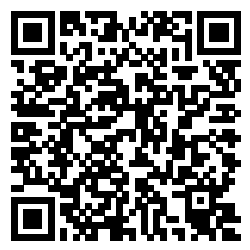
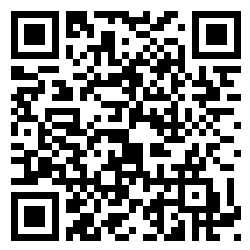
update conf links

diff --git a/readme.md b/readme.md
@@ -12,9 +12,10 @@
 - 提供多个规则文件让大家自由选择或者自由切换使用。
 - 专门针对 ShadowRocket 开发，可以保证与 SR 的兼容性。
 
+
 ## 规则列表
 
-![规则选择指南](https://github.com/h2y/Shadowrocket-ADBlock-Rules/raw/master/figure/guide.png)
+![规则选择指南](https://h2y.github.io/Shadowrocket-ADBlock-Rules/figure/guide.png)
 
 规则 | 规定代理的网站 | 规定直连的网站 
 --- | ----------- | ------------- 
@@ -37,6 +38,15 @@
 在 ShadowRocket 应用中，进入 [配置] 页面，点击扫描二维码的按钮添加规则。再激活添加的规则文件即可。
 
 最好让 ShadowRocket 断开并重新连接一次，以确保新的规则文件生效。 
+
+
+## 请保护好自己
+
+谷歌中英文的搜索体验都优于百度，而刷美剧、ins 追星、去推特看看特朗普也都挺有意思。但是，随着看到的人和事越多，我越发想要在这里说一些话，告诫路过的各位：
+
+**请务必保护好自己** 我们自认为打破了信息的壁垒，其实打破的是保护我们的屏障。因为外网真的存在很多误导性言论，来自各个利益集团对中国网民疯狂洗脑，他们往往还喜欢以平等自由等旗号自称，但仔细想想真的是这样吗？我只知道美国是最善于运用舆论的国家，会结合大数据潜移默化地改变你的观念。如果大家在上网过程中不经意看到了某些观点，务必保留自己独立思考的能力，如果你是一个容易被带偏的人，则建议回到屏障之中。
+
+本规则只提供给大家用于更便捷地学习和工作。如果你是对上述观点持反对意见的极端政治人士，或者已被洗脑，请立即离开，本项目不对你开放。
 
 
 ## 一些推荐的网站
@@ -63,14 +73,6 @@
 
 我是一名大学生，沉迷技术无法自拔。这是我的个人博客，会分享一些有趣的东西和自己的观点，欢迎来逛逛~
 
-## 请保护好自己
-
-谷歌中英文的搜索体验都优于百度，而刷美剧、ins 追星、去推特看看特朗普也都挺有意思。但是，随着看到的人和事越多，我越发想要在这里说一些话，告诫路过的各位：
-
-**请务必保护好自己** 我们自认为打破了信息的壁垒，其实打破的是保护我们的屏障。因为外网真的存在很多误导性言论，来自各个利益集团对中国网民疯狂洗脑，他们往往还喜欢以平等自由等旗号自称，但仔细想想真的是这样吗？我只知道美国是最善于运用舆论的国家，会结合大数据潜移默化地改变你的观念。如果大家在上网过程中不经意看到了某些观点，务必保留自己独立思考的能力，如果你是一个容易被带偏的人，则建议回到屏障之中。
-
-本规则只提供给大家用于更便捷地学习和工作。如果你是对上述观点持反对意见的极端政治人士，或者已被洗脑，请立即离开，本项目不对你开放。
-
 
 ## 常见问题
 
@@ -94,6 +96,7 @@
 - **广告过滤不完全？**
 
 > 该规则并不保证 100% 过滤所有的广告，尤其是视频广告，与网页广告不同的是，优酷等 App 每次升级都有可能更换一次广告策略，因此难以保证其广告屏蔽的实时有效性。
+
 
 ## 问题反馈
 
@@ -125,9 +128,9 @@
 - 直连：正常的网站
 - 包含广告过滤
 
-规则地址：<https://raw.githubusercontent.com/h2y/Shadowrocket-ADBlock-Rules/master/sr_top500_banlist_ad.conf>
+规则地址：<https://git.io/JfIXs>
 
-![二维码](https://h2y.github.io/Shadowrocket-ADBlock-Rules/figure/sr_top500_banlist_ad.png)
+![二维码](https://h2y.github.io/Shadowrocket-ADBlock-Rules/figure/sr_top500_banlist_ad.png?1)
 
 ## 白名单过滤 + 广告
 
@@ -137,9 +140,9 @@
 - 代理：默认代理其余的所有境外网站
 - 包含广告过滤
 
-规则地址：<https://raw.githubusercontent.com/h2y/Shadowrocket-ADBlock-Rules/master/sr_top500_whitelist_ad.conf>
+规则地址：<https://git.io/JfIXo>
 
-![二维码](https://h2y.github.io/Shadowrocket-ADBlock-Rules/figure/sr_top500_whitelist_ad.png)
+![二维码](https://h2y.github.io/Shadowrocket-ADBlock-Rules/figure/sr_top500_whitelist_ad.png?1)
 
 
 ## 黑名单过滤
@@ -150,9 +153,9 @@
 - 直连：正常的网站
 - 不包含广告过滤
 
-规则地址：<https://raw.githubusercontent.com/h2y/Shadowrocket-ADBlock-Rules/master/sr_top500_banlist.conf>
+规则地址：<https://git.io/JfIXS>
 
-![二维码](https://h2y.github.io/Shadowrocket-ADBlock-Rules/figure/sr_top500_banlist.png)
+![二维码](https://h2y.github.io/Shadowrocket-ADBlock-Rules/figure/sr_top500_banlist.png?1)
 
 
 ## 白名单过滤
@@ -163,27 +166,27 @@
 - 代理：默认代理其余的所有境外网站
 - 不包含广告过滤
 
-规则地址：<https://raw.githubusercontent.com/h2y/Shadowrocket-ADBlock-Rules/master/sr_top500_whitelist.conf>
+规则地址：<https://git.io/JfIXh>
 
-![二维码](https://h2y.github.io/Shadowrocket-ADBlock-Rules/figure/sr_top500_whitelist.png)
+![二维码](https://h2y.github.io/Shadowrocket-ADBlock-Rules/figure/sr_top500_whitelist.png?1)
 
 
 ## 国内外划分 + 广告
 
 国内外划分，对中国网站直连，外国网站代理。包含广告过滤。国外网站总是走代理，对于某些港澳台网站，速度反而会比直连更快。
 
-规则地址：<https://raw.githubusercontent.com/h2y/Shadowrocket-ADBlock-Rules/master/sr_cnip_ad.conf>
+规则地址：<https://git.io/JfI1k>
 
-![二维码](https://h2y.github.io/Shadowrocket-ADBlock-Rules/figure/sr_cnip_ad.png)
+![二维码](https://h2y.github.io/Shadowrocket-ADBlock-Rules/figure/sr_cnip_ad.png?1)
 
 
 ## 国内外划分
 
 国内外划分，对中国网站直连，外国网站代理。不包含广告过滤。国外网站总是走代理，对于某些港澳台网站，速度反而会比直连更快。
 
-规则地址：<https://raw.githubusercontent.com/h2y/Shadowrocket-ADBlock-Rules/master/sr_cnip.conf>
+规则地址：<https://git.io/JfI1q>
 
-![二维码](https://h2y.github.io/Shadowrocket-ADBlock-Rules/figure/sr_cnip.png)
+![二维码](https://h2y.github.io/Shadowrocket-ADBlock-Rules/figure/sr_cnip.png?1)
 
 
 ## 直连去广告
@@ -193,9 +196,9 @@
 - 直连：所有请求
 - 包含广告过滤
 
-规则地址：<https://raw.githubusercontent.com/h2y/Shadowrocket-ADBlock-Rules/master/sr_direct_banad.conf>
+规则地址：<https://git.io/JfI1m>
 
-![二维码](https://h2y.github.io/Shadowrocket-ADBlock-Rules/figure/sr_direct_banad.png)
+![二维码](https://h2y.github.io/Shadowrocket-ADBlock-Rules/figure/sr_direct_banad.png?1)
 
 
 ## 代理去广告
@@ -206,9 +209,9 @@
 - 代理：其余所有请求
 - 包含广告过滤
 
-规则地址：<https://raw.githubusercontent.com/h2y/Shadowrocket-ADBlock-Rules/master/sr_proxy_banad.conf>
+规则地址：<https://git.io/JfI13>
 
-![二维码](https://h2y.github.io/Shadowrocket-ADBlock-Rules/figure/sr_proxy_banad.png)
+![二维码](https://h2y.github.io/Shadowrocket-ADBlock-Rules/figure/sr_proxy_banad.png?1)
 
 
 ## 回国规则
@@ -219,9 +222,9 @@
 - 代理：中国网站
 - 不包含广告过滤
 
-规则地址：<https://raw.githubusercontent.com/h2y/Shadowrocket-ADBlock-Rules/master/sr_backcn.conf>
+规则地址：<https://git.io/JfI1s>
 
-![二维码](https://h2y.github.io/Shadowrocket-ADBlock-Rules/figure/sr_backcn.png)
+![二维码](https://h2y.github.io/Shadowrocket-ADBlock-Rules/figure/sr_backcn.png?1)
 
 
 ## 回国规则 + 广告
@@ -232,6 +235,6 @@
 - 代理：中国网站
 - 包含广告过滤
 
-规则地址：<https://raw.githubusercontent.com/h2y/Shadowrocket-ADBlock-Rules/master/sr_backcn_ad.conf>
+规则地址：<https://git.io/JfI1Z>
 
-![二维码](https://h2y.github.io/Shadowrocket-ADBlock-Rules/figure/sr_backcn_ad.png)
+![二维码](https://h2y.github.io/Shadowrocket-ADBlock-Rules/figure/sr_backcn_ad.png?1)
